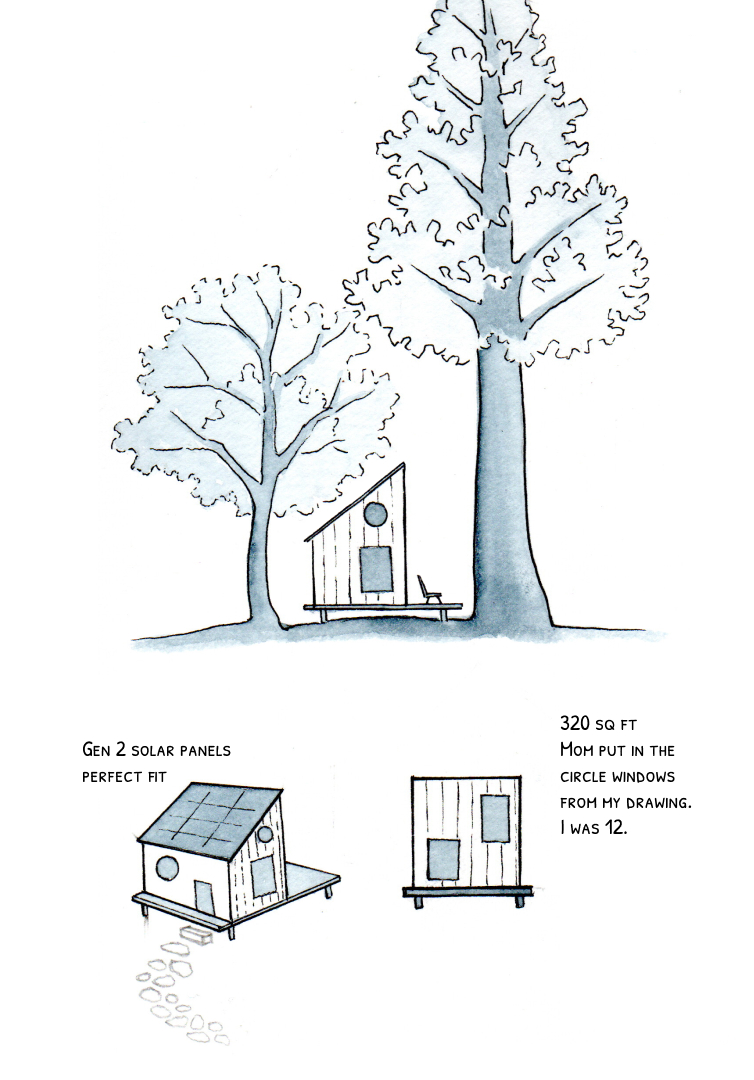
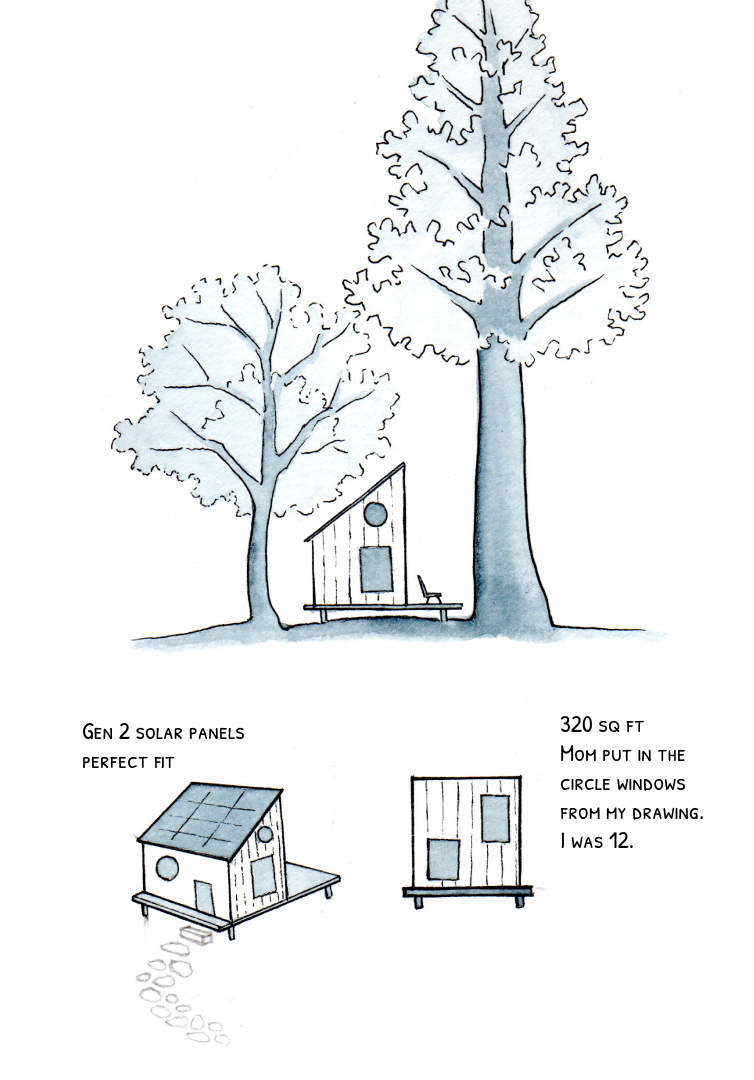
update font size

Changed region(s): [[0.7321, 0.6417, 0.9151, 0.7944], [0.0915, 0.6722, 0.3355, 0.7333]]

diff --git a/style.css b/style.css
@@ -213,7 +213,7 @@ html, body {
 }
 
 .text-panel p {
-  font-size: 17px;
+  font-size: 18px;
   line-height: 1.8;
   letter-spacing: 0.01em;
   color: var(--text);
@@ -262,6 +262,7 @@ html, body {
   align-items: center;
   justify-content: center;
   min-height: 0;
+  mix-blend-mode: multiply;
 }
 
 .illus-img img {
@@ -269,6 +270,7 @@ html, body {
   height: 100%;
   object-fit: contain;
   display: block;
+  mix-blend-mode: multiply;
 }
 
 .spread.illus-in .illus-img { opacity: 1; transform: none; }
